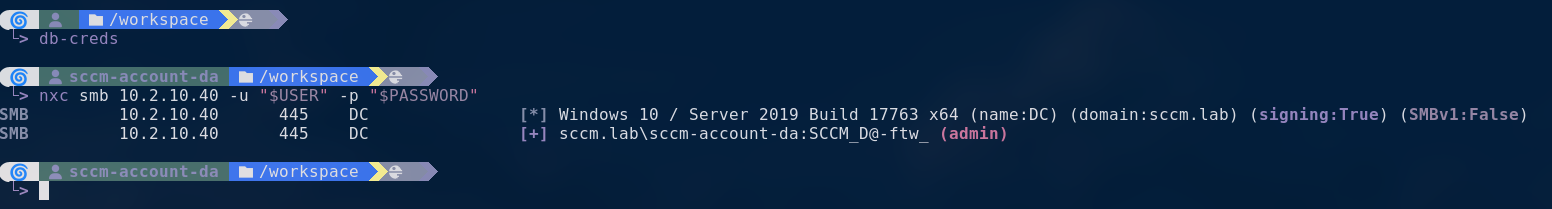
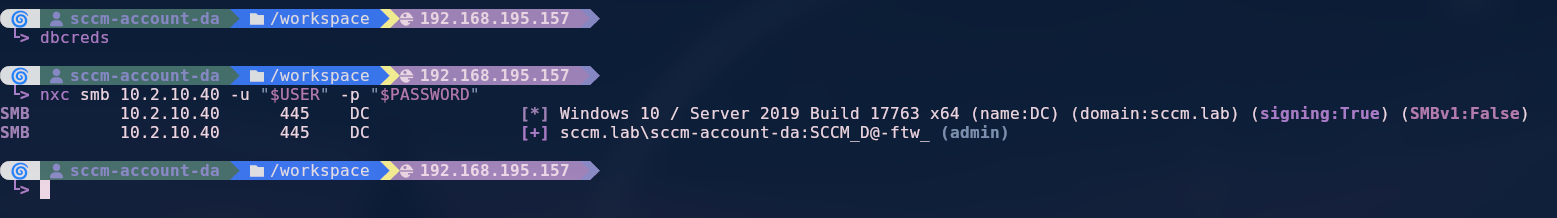
Fixed a few grammatical errors and fixed #1

diff --git a/README.md b/README.md
@@ -1,7 +1,7 @@
 # 📂 DBAssets
-DBAssets is a tool to quickly store and retrieve compromised credentials / hosts, the goal is to ease the management of credentials / hosts during a penetration testing engagment or a CTF.
+DBAssets is a tool to quickly store and retrieve compromised credentials and hosts; the goal is to ease the management of credentials and hosts during a penetration testing engagement or a CTF.
 
-Once an asset is selected from the TUI, the informations can be accessed through environnment variable and don't need to be typed over and over.
+Once an asset is selected from the TUI, the information can be accessed through environment variables and doesn't need to be typed over and over.
 
 For CLI usage, see [Wiki](WIKI.md)
 
@@ -10,7 +10,7 @@ For CLI usage, see [Wiki](WIKI.md)
 pipx install git+https://github.com/lap1nou/db-assets
 ```
 
-You can then add those two shell alias in your shell configuration file (`.bashrc`, `.zshrc`, ...):
+You can then add these two shell aliases in your shell configuration file (`.bashrc`, `.zshrc`, ...):
 ```bash
 alias dbcreds='(){
 	CREDS=$(dbassets tui creds);
